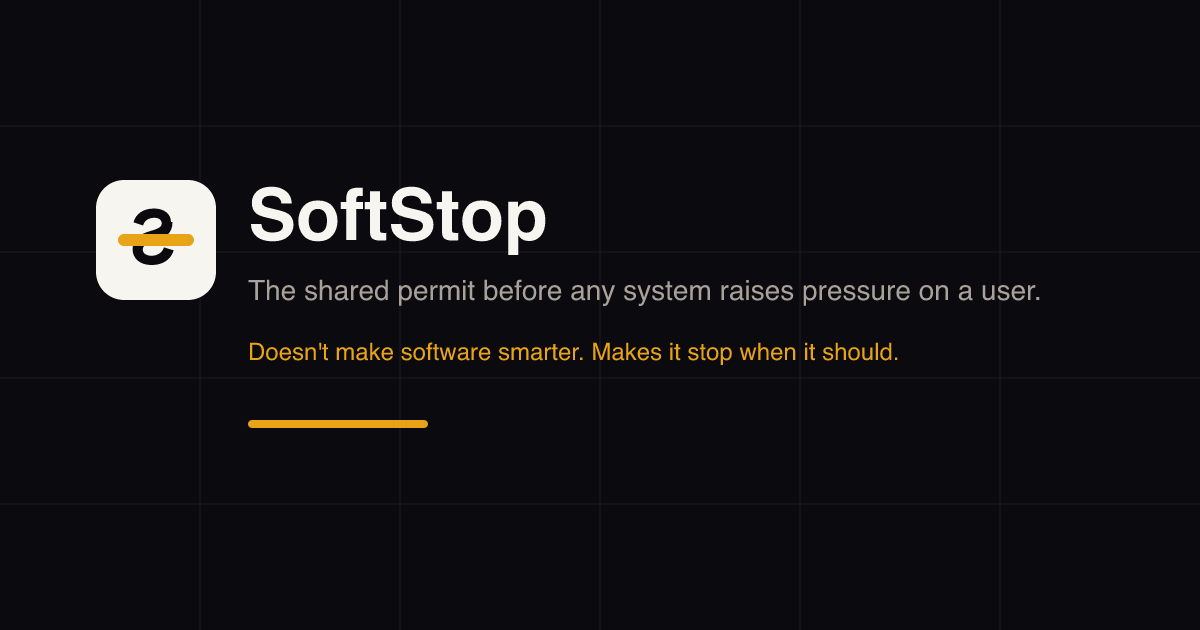
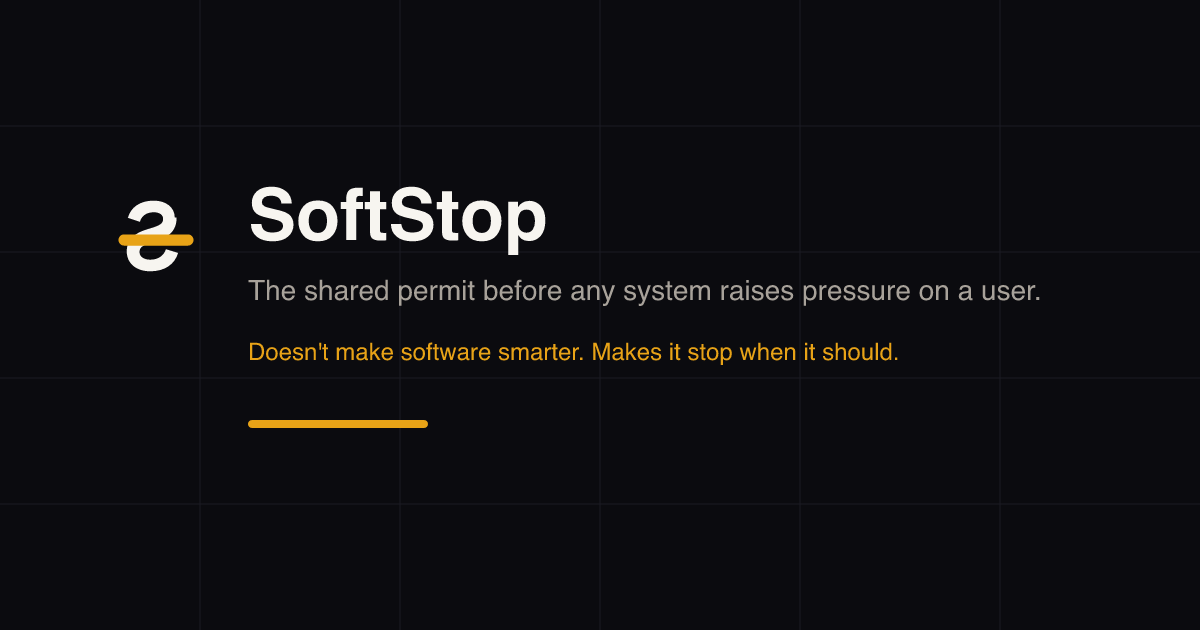
Make SoftStop mark transparent; add dark-mode inverted variant.

Changed region(s): [[0.0617, 0.2714, 0.185, 0.4825]]

diff --git a/demo/index.html b/demo/index.html
@@ -5,7 +5,7 @@
     <meta name="viewport" content="width=device-width, initial-scale=1.0, maximum-scale=1.0, user-scalable=no">
     <title>SoftStop | Multi-Channel Timeline Demo</title>
     <meta name="description" content="Scroll through 44 days of pressure across email, SMS, push, and in-app. Feel the chaos. Then SoftStop makes it stop.">
-    <link rel="icon" href="assets/softstop-mark.png" type="image/png" />
+    <link rel="icon" href="assets/softstop-mark-dark.png" type="image/png" />
     <script src="https://cdn.tailwindcss.com"></script>
     <link rel="preconnect" href="https://fonts.googleapis.com">
     <link rel="preconnect" href="https://fonts.gstatic.com" crossorigin>
@@ -275,7 +275,7 @@
                     <div id="softstopIndicatorFixed" class="w-4 h-4 rounded-full bg-accent-red transition-all"></div>
                     <div>
                         <div class="text-xs text-slate-500 uppercase font-bold tracking-wider flex items-center gap-2">
-                          <img src="assets/softstop-mark.png" width="16" height="16" alt="" />
+                          <img src="assets/softstop-mark-dark.png" width="16" height="16" alt="" />
                           SoftStop
                         </div>
                         <div id="softstopLabelFixed" class="font-bold text-white">OFF</div>
@@ -291,7 +291,7 @@
         <!-- Logo -->
         <div class="p-6 border-b border-white/5">
             <div class="flex items-center gap-3 mb-4">
-                <img src="assets/softstop-mark.png" width="40" height="40" alt="" class="rounded-xl" />
+                <img src="assets/softstop-mark-dark.png" width="40" height="40" alt="" />
                 <div>
                     <div class="font-bold text-lg">SoftStop</div>
                     <div class="text-xs text-slate-500">Multi-Channel Demo</div>
@@ -471,7 +471,7 @@
             </div>
 
             <div class="relative text-center px-6 md:px-12 max-w-3xl">
-                <img src="assets/softstop-mark.png" width="72" height="72" alt="SoftStop" class="mx-auto mb-8 rounded-2xl shadow-[0_0_0_1px_rgba(247,245,240,0.08)]" />
+                <img src="assets/softstop-mark-dark.png" width="72" height="72" alt="SoftStop" class="mx-auto mb-8" />
                 <p class="text-[11px] md:text-xs tracking-[0.22em] uppercase text-stop-amber font-semibold mb-5">Authorize-only pressure permit</p>
                 <h1 class="font-display text-5xl md:text-6xl lg:text-7xl font-semibold tracking-tight text-paper mb-5">SoftStop</h1>
                 <p class="text-lg md:text-xl text-paper/90 font-medium mb-3 max-w-2xl mx-auto leading-snug">

diff --git a/docs/brand/README.md b/docs/brand/README.md
@@ -2,7 +2,7 @@
 
 ## Mark
 
-Soft halt bar through a geometric **S** — permit/block without looking like a hard stop light or security shield.
+Soft halt bar through a geometric **S** — permit/block without looking like a hard stop light or security shield. Background is always transparent.
 
 - Ink: `#0B0B0F`
 - Paper: `#F7F5F0`
@@ -12,9 +12,11 @@ Soft halt bar through a geometric **S** — permit/block without looking like a 
 
 | File | Use |
 |------|-----|
-| [softstop-mark.png](softstop-mark.png) | Favicon / icon (primary, 256px) |
-| [softstop-mark-1024.png](softstop-mark-1024.png) | High-res mark |
-| [softstop-mark.svg](softstop-mark.svg) | Vector source |
+| [softstop-mark.png](softstop-mark.png) | Default / light backgrounds (ink S) |
+| [softstop-mark-dark.png](softstop-mark-dark.png) | Dark mode / dark backgrounds (paper S) |
+| [softstop-mark.svg](softstop-mark.svg) | Vector — light |
+| [softstop-mark-dark.svg](softstop-mark-dark.svg) | Vector — dark |
+| [softstop-mark-1024.png](softstop-mark-1024.png) / [softstop-mark-dark-1024.png](softstop-mark-dark-1024.png) | High-res |
 | [softstop-wordmark.svg](softstop-wordmark.svg) | README / demo header |
 | [softstop-cover.png](softstop-cover.png) | Social / README hero (~1200×630) |
 | [softstop-before-after.png](softstop-before-after.png) | Story proof |
@@ -24,10 +26,12 @@ Soft halt bar through a geometric **S** — permit/block without looking like a 
 
 - Flat, one accent color
 - SoftStop as one word
+- Transparent mark backgrounds (no filled tile)
 - Pressure permit / stop-when-it-should framing
 
 ## Don't
 
 - Purple AI gradients, glow orbs, baby soft-spot literalism
 - Shield/lock IAM vibes
+- Opaque white or black square behind the mark
 - MCP / agent-firewall framing on the mark
